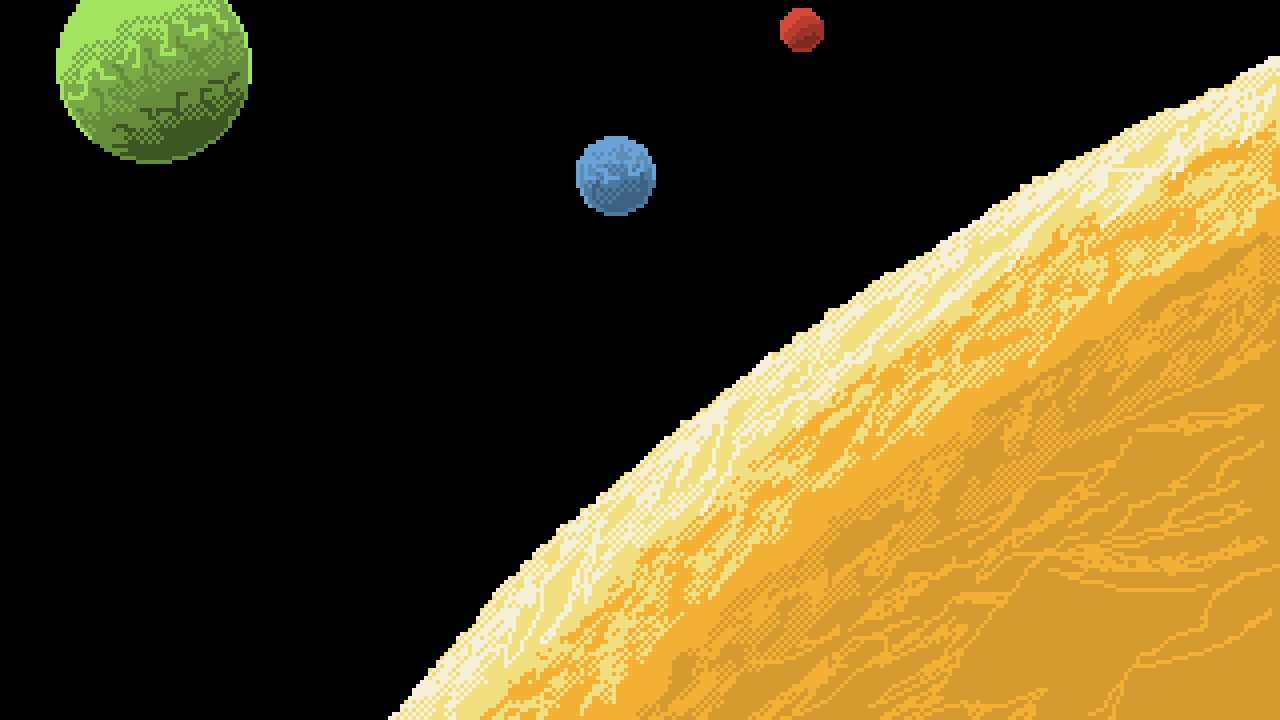
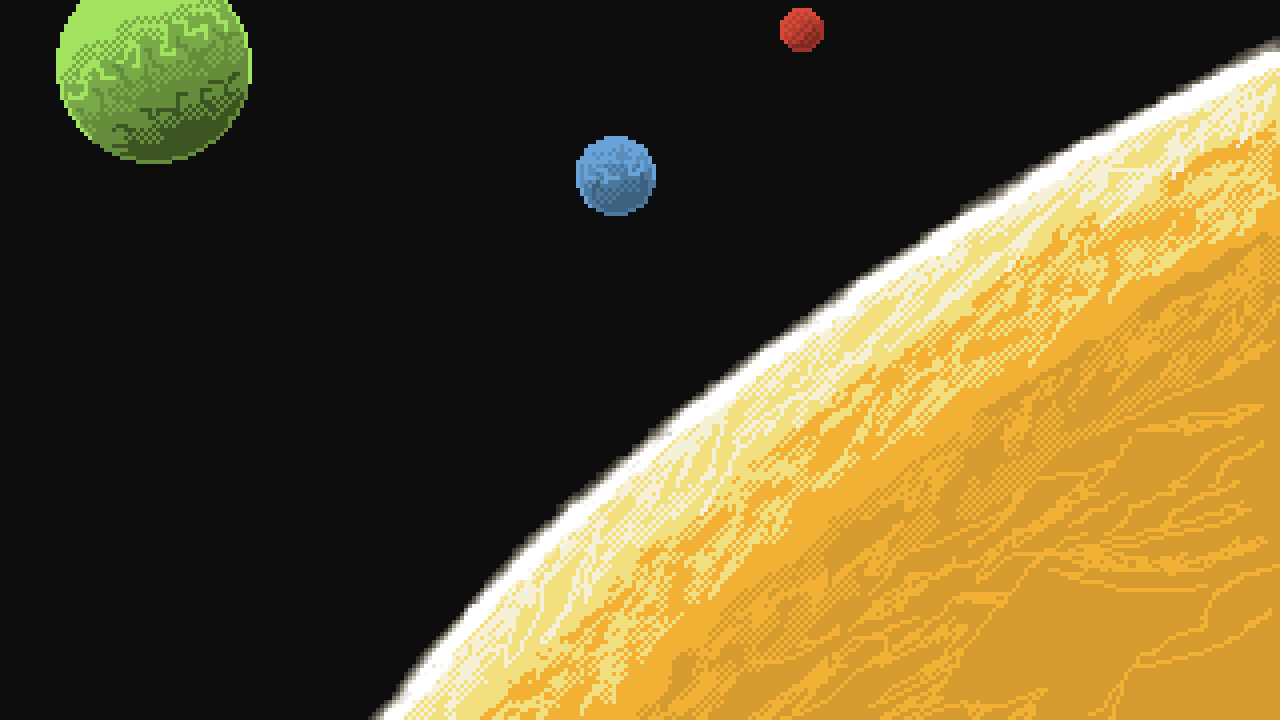
feat: update canvas and body color, adjust Lobby background img

Changed region(s): [[0.2812, 0.0306, 1.0, 1.0], [0.5938, 0.0306, 0.6562, 0.0611]]

diff --git a/src/client/main.ts b/src/client/main.ts
@@ -7,6 +7,7 @@ import { GAME_HEIGHT, GAME_WIDTH } from '../shared/constants.js';
 
 const config = {
   type: Phaser.AUTO,
+  backgroundColor: '#0d0d0d',
   scale: {
     parent: 'game-container',
     mode: Phaser.Scale.FIT,

diff --git a/src/client/style.css b/src/client/style.css
@@ -17,6 +17,6 @@
 }
 
 body {
-  background-color: #0d0d0d;
+  background-color: #000000;
   font-family: 'Pixelify Sans', serif;
 }
